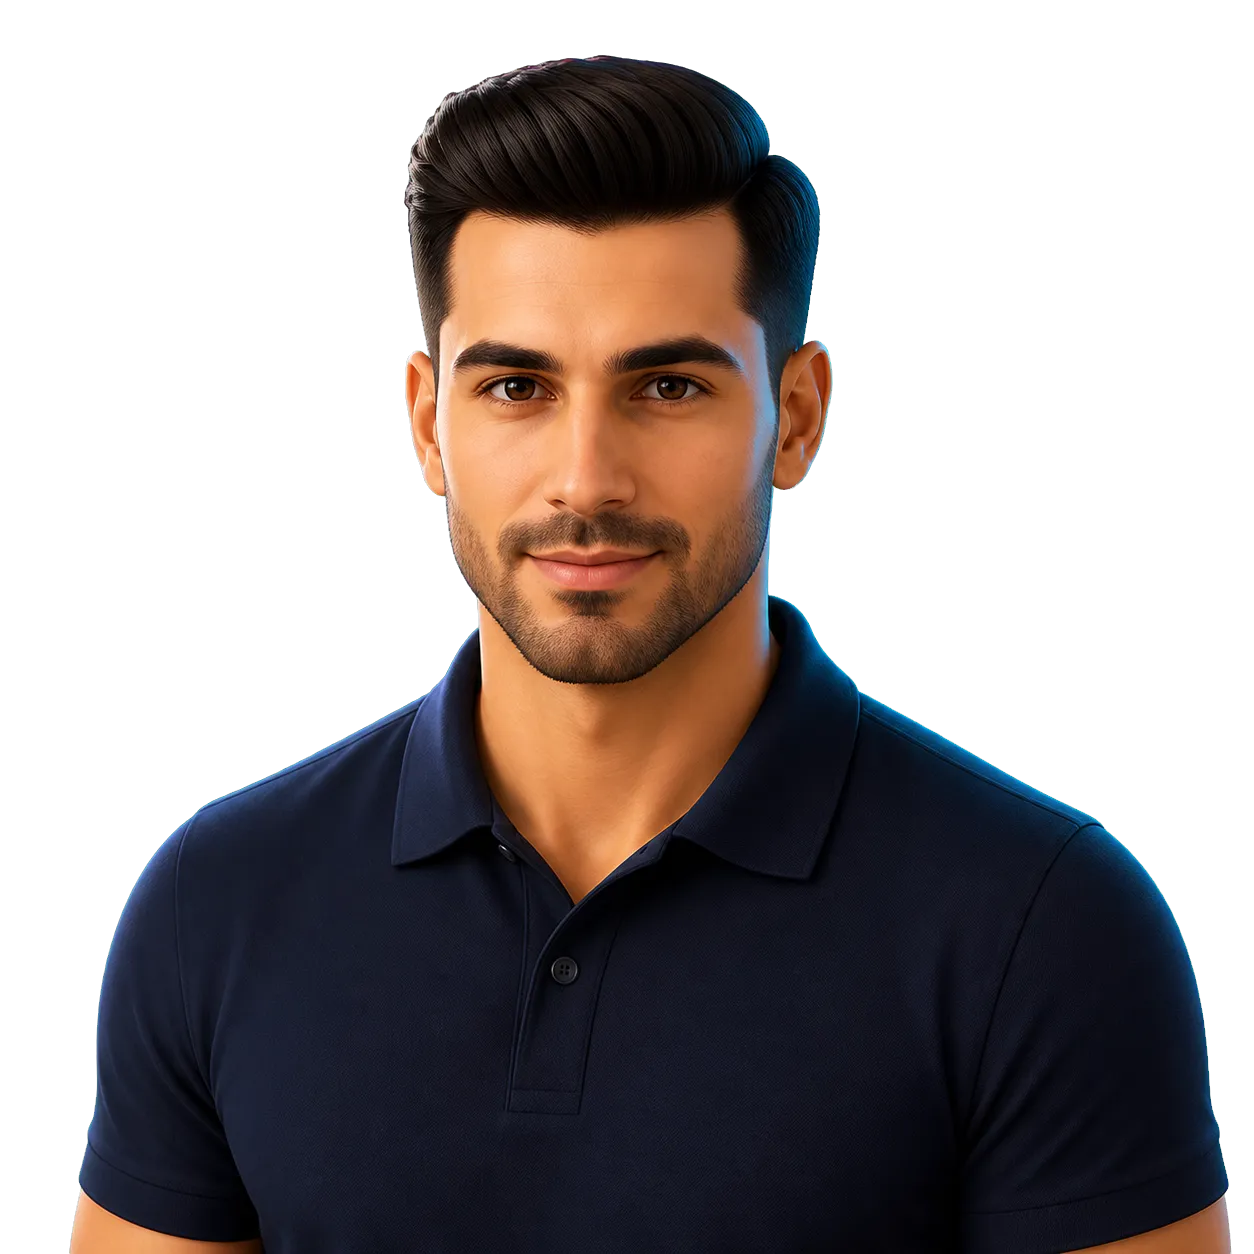
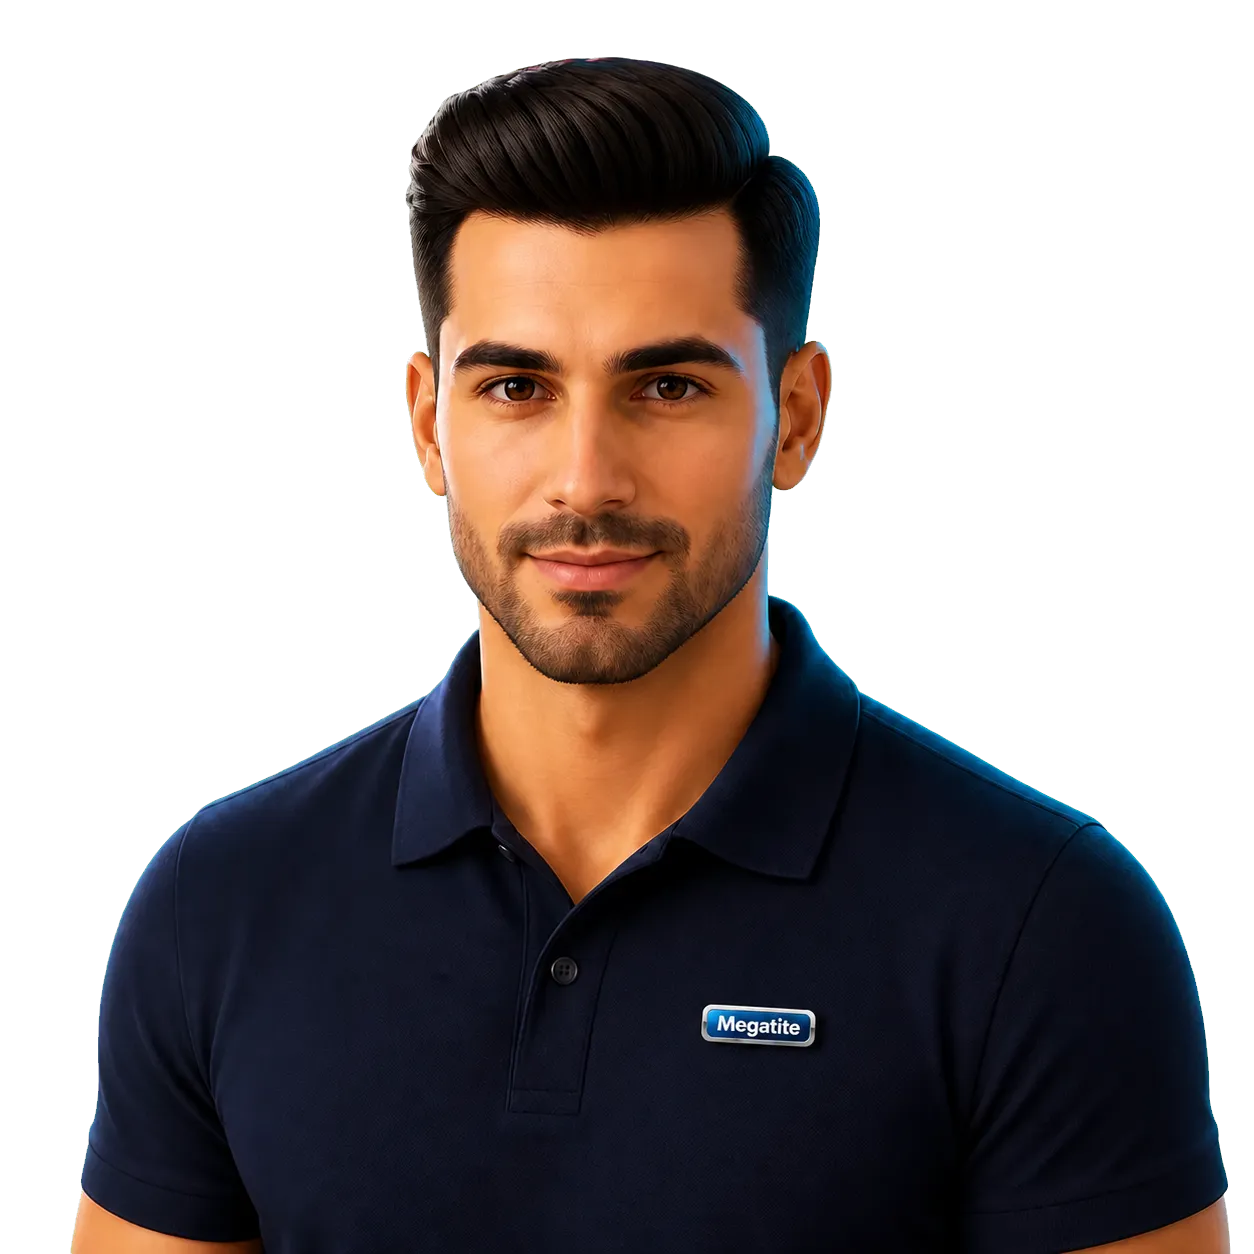
Refine chatbot welcome layout

diff --git a/frontend/src/index.css b/frontend/src/index.css
@@ -284,6 +284,7 @@ textarea:focus-visible {
   max-width: 60rem;
   align-items: center;
   justify-content: center;
+  gap: clamp(1.5rem, 3vw, 3rem);
   transform-style: preserve-3d;
   animation: intake-arrive 420ms cubic-bezier(0.2, 0.8, 0.2, 1) both;
 }
@@ -308,7 +309,7 @@ textarea:focus-visible {
   z-index: 2;
   width: clamp(12rem, 23vw, 18rem);
   flex: 0 0 auto;
-  margin-left: -2.5rem;
+  margin-left: 0;
   filter:
     drop-shadow(0 2rem 2rem rgb(1 5 20 / 48%))
     drop-shadow(0 0 1.7rem rgb(45 212 191 / 26%));
